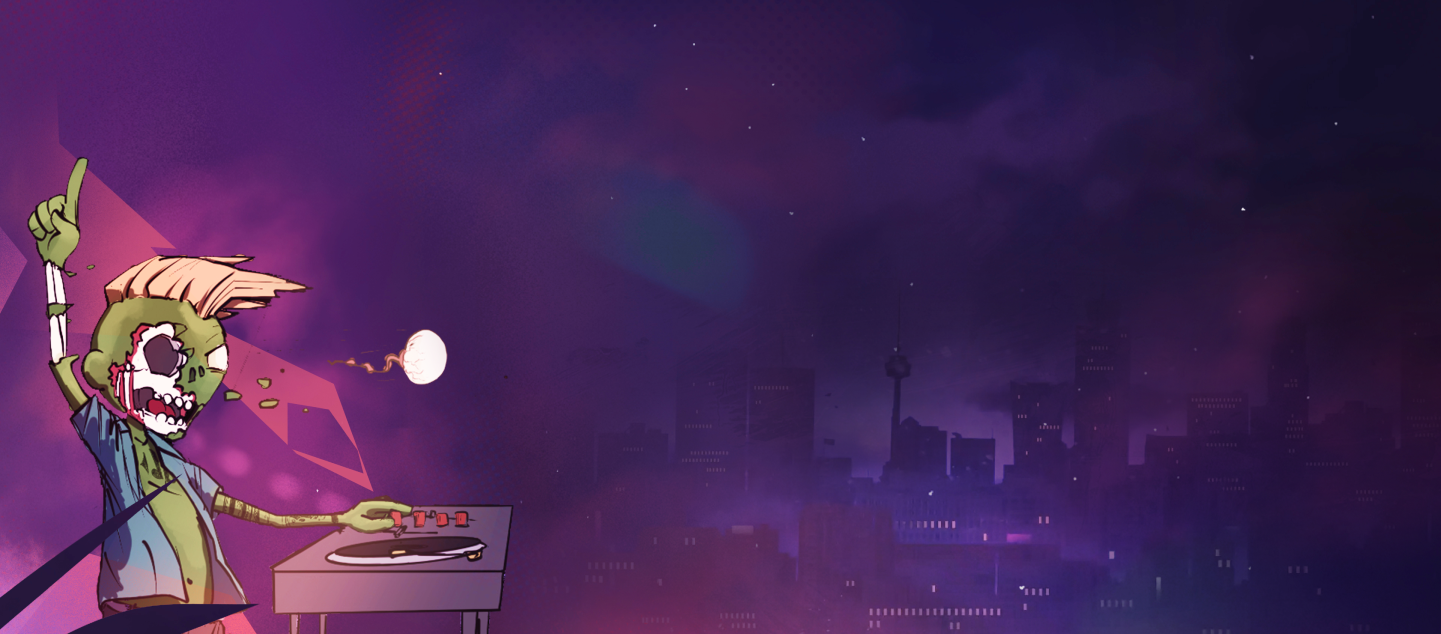
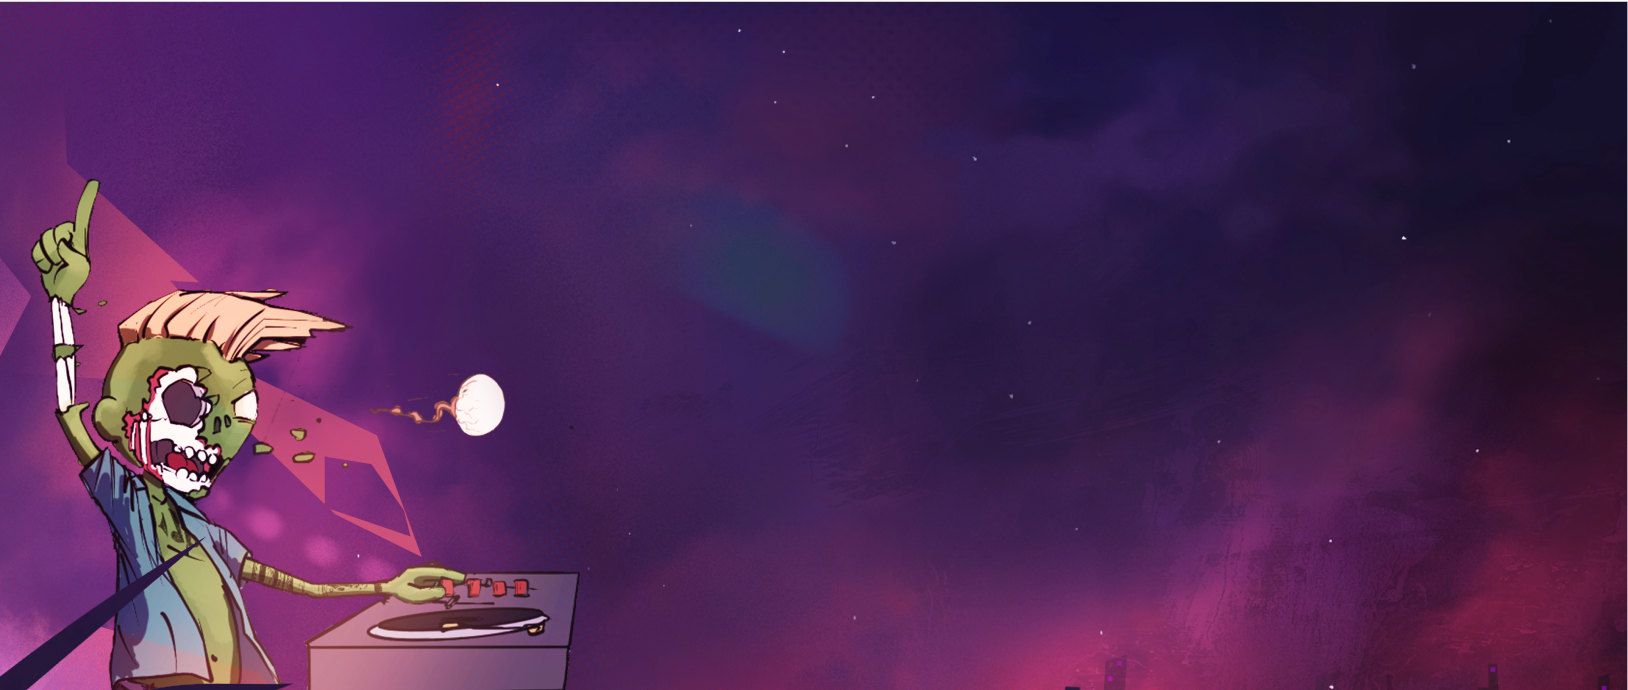
update assets and update minor touches

Changed region(s): [[0.0, 0.0, 1.0, 1.0], [0.0, 0.2397, 0.3747, 1.0]]

diff --git a/assets/theme.css b/assets/theme.css
@@ -679,7 +679,7 @@ ul, ol {
 }
 @media only screen and (max-width: 480px) {
   .db-section--about-us-banner {
-    padding-top: 100px;
+    padding-top: 160px;
   }
 }
 .db-section--about-us-banner .db-container .title-wrap {
@@ -776,6 +776,7 @@ ul, ol {
   .db-section--about-us-banner .db-container .db-row:nth-child(2) {
     border-radius: 15px;
     border: 8px solid #242031;
+    margin-top: 74px;
   }
 }
 .db-section--about-us-banner .db-container .db-row:nth-child(2) .db-col-spacer {
@@ -1430,6 +1431,7 @@ ul, ol {
   border: 1.108px solid rgba(62, 62, 62, 0.4);
   background: rgba(0, 0, 0, 0.2);
   transition: transform 0.1s linear;
+  scroll-snap-align: start;
 }
 @media only screen and (max-width: 480px) {
   .db-section--about-us-after-life .db-container .db-row .db-col:nth-child(2) .wrapper .carousel .native-card {
@@ -1556,6 +1558,17 @@ ul, ol {
     letter-spacing: -0.369px;
   }
 }
+.db-section--about-us-after-life .db-container .db-row .db-col:nth-child(2) .wrapper .no-character-found {
+  color: #FFF;
+  text-align: center;
+  font-family: var(--primaryFontFamily);
+  font-size: 70px;
+  font-style: normal;
+  font-weight: 700;
+  line-height: 100%;
+  letter-spacing: -3.2px;
+  margin-top: 100px;
+}
 .db-section--about-us-after-life .db-container .db-row .db-col:nth-child(2) .db-buttons-slider {
   max-width: 1146px;
   margin-inline: auto;
@@ -1679,7 +1692,7 @@ ul, ol {
 }
 @media only screen and (max-width: 768px) {
   .db-section--about-us-mb-slider .db-container .db-row .slider {
-    margin-top: 100px;
+    margin-top: 62px;
   }
 }
 .db-section--about-us-mb-slider .db-container .db-row .slider .slider-container {
@@ -1724,7 +1737,7 @@ ul, ol {
   }
 }
 .db-section--about-us-mb-slider .db-container .db-row .slider .slider-container .slide .native-card.firstNative .card-wrapper .db-natives-image-container {
-  left: -20px;
+  left: -10px;
   bottom: -11px;
 }
 .db-section--about-us-mb-slider .db-container .db-row .slider .slider-container .slide .native-card.secondNative .card-wrapper .db-natives-image-container {
@@ -1732,7 +1745,7 @@ ul, ol {
   bottom: -11px;
 }
 .db-section--about-us-mb-slider .db-container .db-row .slider .slider-container .slide .native-card.thirdNative .card-wrapper .db-natives-image-container {
-  left: 0;
+  left: 10px;
   bottom: -11px;
 }
 .db-section--about-us-mb-slider .db-container .db-row .slider .slider-container .slide .native-card .card-wrapper {
@@ -1887,17 +1900,6 @@ ul, ol {
   fill: #AA27B1;
 }
 
-.db-section--spacer {
-  background-color: #0F051B;
-  height: 200px;
-  width: 100%;
-}
-@media only screen and (max-width: 1080px) {
-  .db-section--spacer {
-    height: 50px;
-  }
-}
-
 .db-section--about-us-resurrection {
   background-image: url("About-Us__asset-resurrection-bg-v01.png");
   background-position: 0px 0px;
@@ -1955,8 +1957,13 @@ ul, ol {
   width: 100%;
 }
 .db-section--about-us-resurrection .db-container .db-row .db-col:nth-child(1) .db-cards-image-container .db-cards-image:nth-child(1) {
-  max-width: 362px;
-  height: 211px;
+  max-width: 518px;
+  width: 100%;
+}
+@media only screen and (max-width: 768px) {
+  .db-section--about-us-resurrection .db-container .db-row .db-col:nth-child(1) .db-cards-image-container .db-cards-image:nth-child(1) {
+    max-width: 362px;
+  }
 }
 .db-section--about-us-resurrection .db-container .db-row .db-col:nth-child(1) .db-cards-image-container .db-cards-image:nth-child(2) {
   margin-top: 91px;
@@ -1972,6 +1979,7 @@ ul, ol {
   .db-section--about-us-resurrection .db-container .db-row .db-col:nth-child(1) .db-cards-image-container .db-cards-image:nth-child(2) {
     height: 167px;
     max-width: 362px;
+    width: 100%;
   }
 }
 @media only screen and (max-width: 480px) {

diff --git a/styles/db-theme/_page--about-us.scss b/styles/db-theme/_page--about-us.scss
@@ -13,7 +13,7 @@
   }
 
   @media only screen and (max-width: 480px) {
-    padding-top: 100px;
+    padding-top: 160px;
   }
 
   
@@ -114,6 +114,7 @@
         @media only screen and (max-width: 480px) {
           border-radius: 15px;
           border: 8px solid #242031;
+          margin-top: 74px;
         }
 
         .db-col-spacer {
@@ -656,7 +657,6 @@
           .db-the-natives-title {
             text-align: center;
             margin-inline: auto;
-            // margin-bottom: 91px;
             h3 {
               text-align: center;
               &:nth-child(1) {
@@ -736,7 +736,6 @@
                 grid-auto-flow: row;
                 grid-auto-columns: unset;
                 grid-template-columns: 315px;
-                // grid-template-rows: 270px;
                 grid-template-rows: 255px;
                 row-gap:40px;
                 height: 100%;
@@ -773,6 +772,7 @@
                 border: 1.108px solid rgba(62, 62, 62, 0.40);
                 background: rgba(0, 0, 0, 0.20);
                 transition: transform 0.1s linear;
+                scroll-snap-align: start;
 
                 @media only screen and (max-width: 480px) {
                   border-radius: 19.922px;
@@ -929,6 +929,18 @@
                 
               }
             }
+
+            .no-character-found {
+              color: #FFF;
+              text-align: center;
+              font-family: $primaryFontFamily;
+              font-size: 70px;
+              font-style: normal;
+              font-weight: 700;
+              line-height: 100%;
+              letter-spacing: -3.2px;
+              margin-top: 100px;
+            }
           }
 
           .db-buttons-slider {
@@ -1057,7 +1069,7 @@
         min-width: 315px;
 
          @media only screen and (max-width: 768px) {
-          margin-top: 100px;
+          margin-top: 62px;
         }
         .slider-container {
           display: flex;
@@ -1105,7 +1117,7 @@
               &.firstNative {
                 .card-wrapper {
                   .db-natives-image-container {
-                    left: -20px;
+                    left: -10px;
                     bottom: -11px;
                   }
                 }
@@ -1123,7 +1135,7 @@
               &.thirdNative {
                 .card-wrapper {
                   .db-natives-image-container {
-                    left: 0;
+                    left: 10px;
                     bottom: -11px;
                   }
                 }
@@ -1289,16 +1301,6 @@
   }
 }
 
-.db-section--spacer {
-  background-color: #0F051B;
-  height: 200px;
-  width: 100%;
-
-  @media only screen and (max-width: 1080px) {
-    height: 50px;
-  }
-}
-
 .db-section--about-us-resurrection {
   background-image: url('About-Us__asset-resurrection-bg-v01.png');
   background-position: 0px 0px;
@@ -1352,9 +1354,14 @@
               }
 
               &:nth-child(1) {
-                max-width: 362px;
-                height: 211px;
+                max-width: 518px;
+                width: 100%;
+                @media only screen and (max-width: 768px) {
+                  max-width: 362px;
+                }
+
               }
+
               &:nth-child(2) {
                 margin-top: 91px;
                 margin-left: auto;
@@ -1368,6 +1375,7 @@
                 @media only screen and (max-width: 768px) {
                   height: 167px;
                   max-width: 362px;
+                  width: 100%;
                 }
 
                 @media only screen and (max-width: 480px) {
